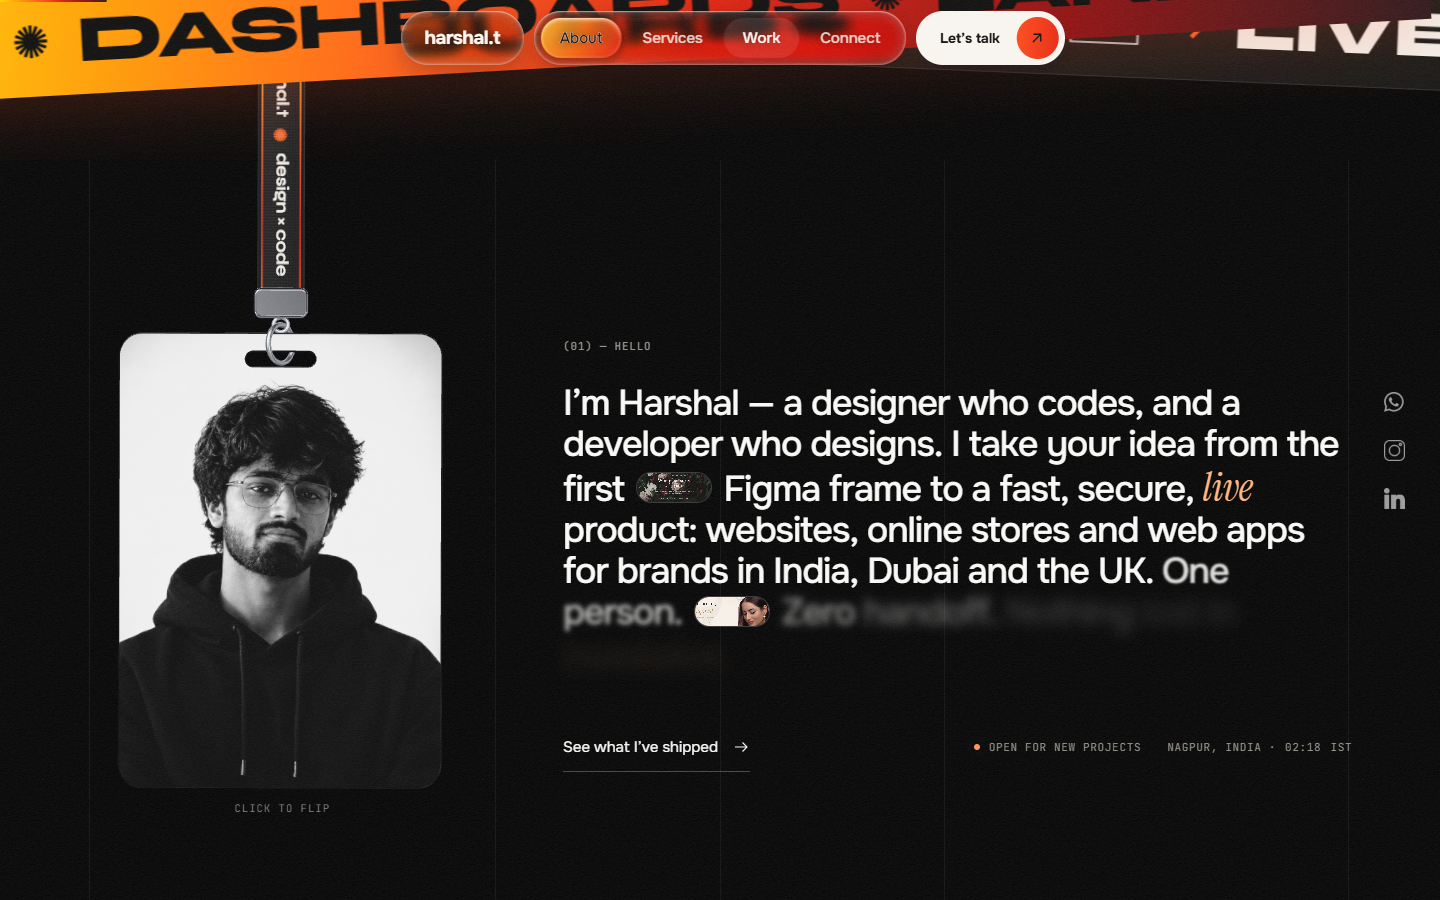
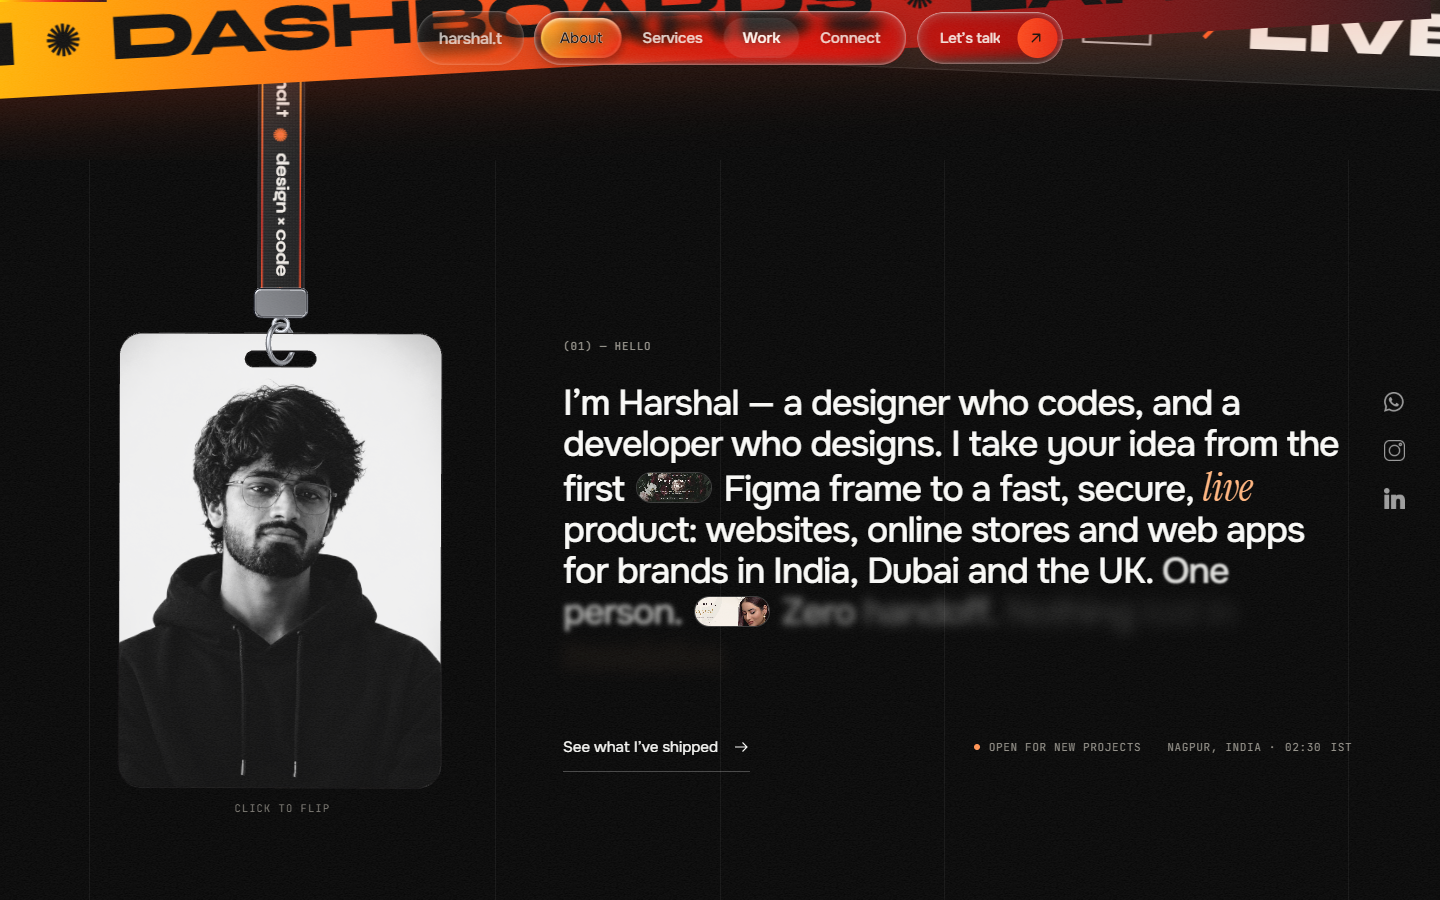
final nav bar created

Changed region(s): [[0.0, 0.0, 0.7812, 0.0933], [0.8438, 0.0, 1.0, 0.0622]]

diff --git a/site.css b/site.css
@@ -65,13 +65,24 @@ html.js.motion .preloader {
 .header-cta.btn { left: calc(100% + 10px); transform: translate(-46px, -50%) scale(.86); }
 .header.is-scrolled .header-logo, .header.is-scrolled .header-cta.btn { pointer-events: auto; visibility: visible; opacity: 1; transform: translate(0, -50%);
   transition: opacity .45s ease .08s, transform .75s var(--ease-out) .04s, visibility 0s, color .5s cubic-bezier(.22,1,.36,1), box-shadow .6s, scale .25s; }
-/* wordmark: its own small pill of the same clear glass, same height as the capsule */
-.header-logo { isolation: isolate; display: inline-flex; align-items: center; height: var(--island-h); padding: 0 24px; border-radius: 999px;
-  font-family: Onest, Inter, sans-serif; font-weight: 700; font-size: calc(19px * var(--fs)); letter-spacing: -.02em; color: #fff6ee; white-space: nowrap; text-shadow: 0 1px 10px rgba(0,0,0,.35); }
+/* wordmark: a quiet, fainter glass pill — the nav links are the star */
+.header-logo { isolation: isolate; display: inline-flex; align-items: center; height: var(--island-h); padding: 0 22px; border-radius: 999px;
+  font-family: Onest, Inter, sans-serif; font-weight: 500; font-size: calc(16px * var(--fs)); letter-spacing: -.015em; color: rgba(250, 246, 240, .74); white-space: nowrap; text-shadow: 0 1px 10px rgba(0,0,0,.35);
+  transition: opacity .45s ease, transform .7s var(--ease-out), visibility 0s .7s, color .3s; }
+.header-logo .nav-glass { opacity: 0; }
+.header.is-scrolled .header-logo .nav-glass { opacity: .5; }
+.header-logo:hover, .header-logo:focus-visible { color: #fff6ee; }
 .header-logo:focus-visible { outline: 2px solid #ff8a3d; outline-offset: 3px; }
-.header.on-light .header-logo { color: #140a04; text-shadow: 0 1px 8px rgba(255,255,255,.5); }
-/* button: the site's fire button, sized to the island */
-.header-cta.btn { --h: var(--island-h); --dot: calc(var(--island-h) - 12px); --pad: 6px; gap: 16px; font-size: calc(14px * var(--fs)); }
+.header.on-light .header-logo { color: rgba(26, 18, 12, .66); text-shadow: 0 1px 8px rgba(255,255,255,.5); }
+.header.on-light .header-logo:hover, .header.on-light .header-logo:focus-visible { color: #140a04; }
+/* button: clear glass pill with a fire-gradient arrow circle; on hover the circle expands and floods the whole button */
+.header-cta.btn { --h: var(--island-h); --dot: calc(var(--island-h) - 14px); --pad: 7px; gap: 16px; font-size: calc(14.5px * var(--fs)); font-weight: 500;
+  --bg: transparent; --fg: rgba(250, 246, 240, .9); --fg-hover: #170903; --icon-bg: transparent; --icon-fg: #170903; --icon-bg-hover: #170903; --icon-fg-hover: #fff6ee;
+  box-shadow: none; text-shadow: 0 1px 10px rgba(0,0,0,.3); }
+.header-cta.btn:hover, .header-cta.btn:focus-visible { box-shadow: 0 14px 40px -14px rgba(255, 90, 31, .6); text-shadow: none; }
+.header-cta .nav-glass { z-index: -2; transition: opacity .35s ease; }
+.header-cta:is(:hover, :focus-visible) .nav-glass { opacity: 0 !important; }
+.header.on-light .header-cta.btn { --fg: rgba(26, 18, 12, .86); text-shadow: 0 1px 8px rgba(255,255,255,.5); }
 :root { --island-h: calc(54px * var(--fs)); }
 .header.is-hidden { transform: translateY(-100%); }
 .header.is-scrolled { height: 76px; }

diff --git a/index.html b/index.html
@@ -62,7 +62,7 @@
             </ul>
           </div>
         </nav>
-        <a class="btn btn--fire header-cta" href="#contact"><span class="btn-text" data-roll>Let’s talk</span><span class="btn-icon" aria-hidden="true"><svg viewBox="0 0 24 24"><path d="M7 17 17 7M8 7h9v9"/></svg><svg viewBox="0 0 24 24"><path d="M7 17 17 7M8 7h9v9"/></svg></span></a>
+        <a class="btn btn--fire header-cta" href="#contact"><span class="nav-glass" aria-hidden="true"></span><span class="btn-text" data-roll>Let’s talk</span><span class="btn-icon" aria-hidden="true"><svg viewBox="0 0 24 24"><path d="M7 17 17 7M8 7h9v9"/></svg><svg viewBox="0 0 24 24"><path d="M7 17 17 7M8 7h9v9"/></svg></span></a>
       </div>
     </header>
 
